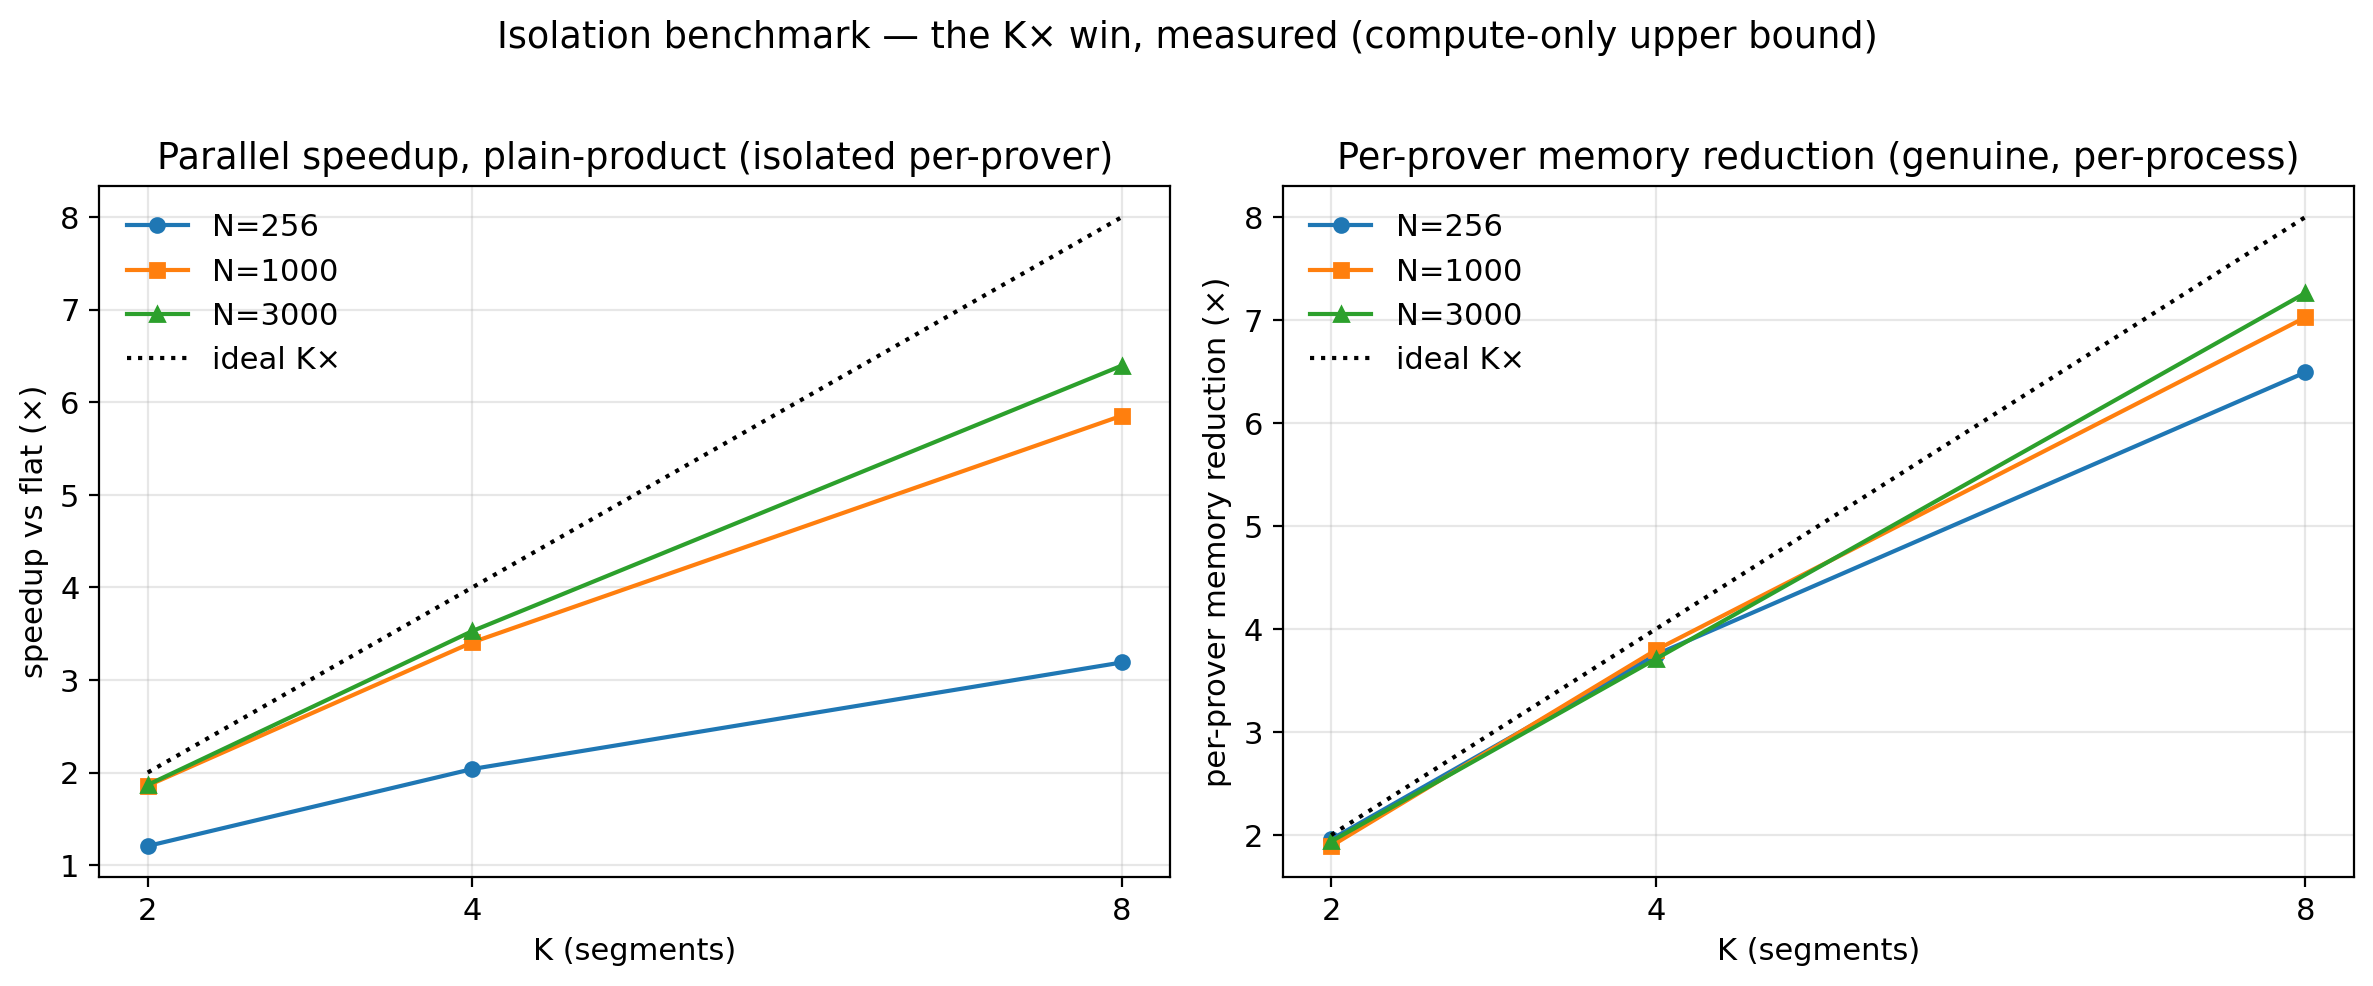
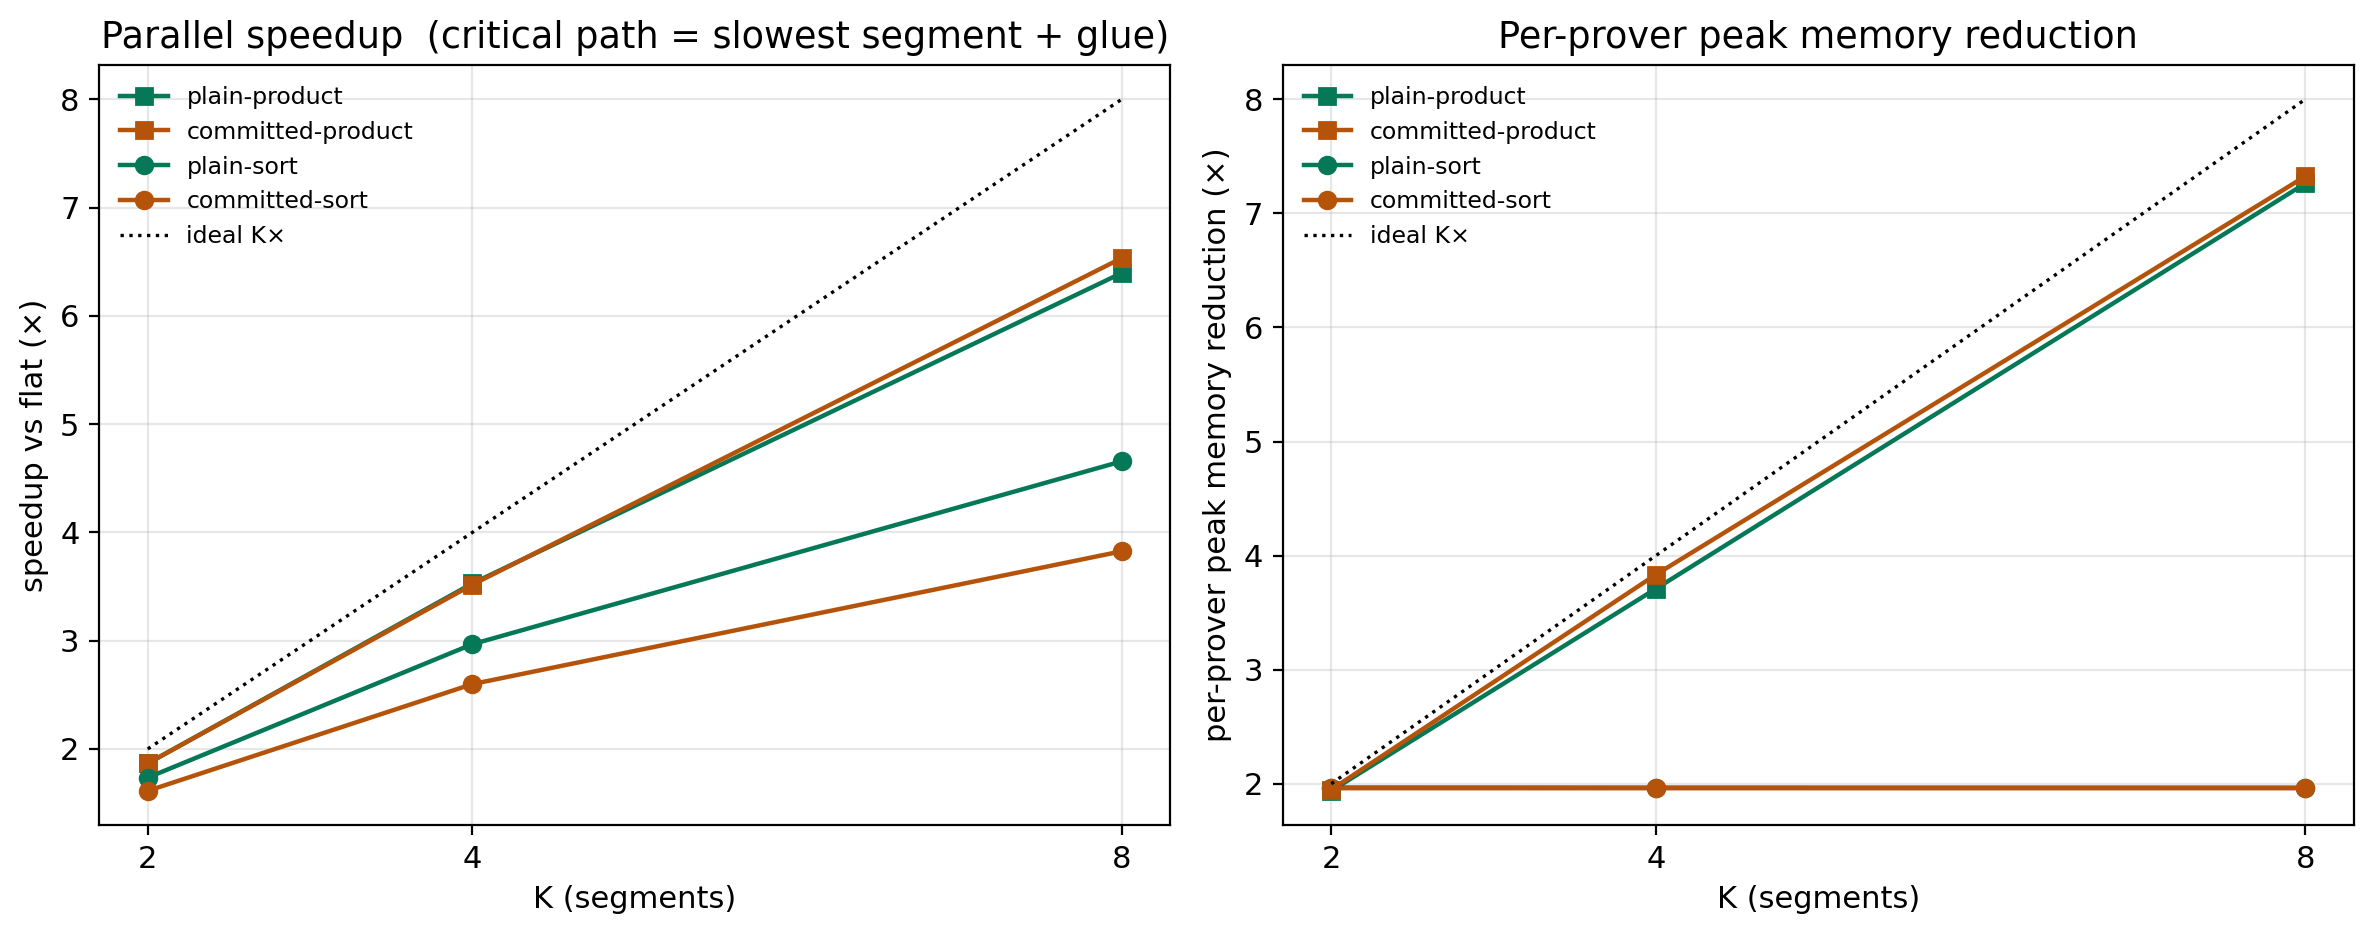
Ch6: draft §6.4 (proving in parallel — the K× win, split by mechanism)
§6.4.1 The Speedup, and Its Ceiling: critical path = slowest segment + glue
(isolated/uncontended composition, stated as a compute-only upper bound). At
n=3000, K=8 the product variants reach ~6.4-6.5x; the shortfall from 8x is the
dualism plus fixed per-proof overhead (segments cap near 6.7x) and then the
glue. The mechanism reaches the clock: the product glue is ~0.5s, the sort glue
a serial O(n) tail (7s plain, 11s committed) that Amdahl turns into 4.7x/3.8x.

§6.4.2 Clearing the Wall: per-prover peak memory falls ~7.3x for product (1.1 GB
vs flat's 8.3), clearing the wall and reaching n=5000 (~2 GB/prover) that flat
cannot prove at all; the sort variants cap at ~2x across K because the O(n) glue
is the ceiling, and that glue grows back into the wall (12.8 GB at n=5000). The
lever's true worth: the difference between clearing the wall and only appearing
to.

Fig 07 redesigned to the mechanism split (speedup + per-prover memory vs K, all
four variants + ideal Kx), lowercase n, no in-figure title.

diff --git a/pipeline/plot_thesis_figures.py b/pipeline/plot_thesis_figures.py
@@ -267,32 +267,34 @@ def fig_f7():
 
 # --- FIG 7: speedup vs K (isolated, ideal-parallel) ------------------------
 def fig_speedup_vs_k():
+    # Mechanism split at fixed n: product glue is negligible so both speedup and
+    # per-prover memory approach K×; the sort glue is a serial, memory-heavy O(n)
+    # tail that caps both. hue = regime, marker = mechanism (style grammar).
+    N=3000
+    FLATREF={"plain-product":"flat_merkle_grand_product","committed-product":"flat_merkle_grand_product",
+             "plain-sort":"flat_merkle_sort","committed-sort":"flat_merkle_sort"}
+    variants=["plain-product","committed-product","plain-sort","committed-sort"]
     fig, axes = plt.subplots(1,2,figsize=(12,4.8))
-    Ns=[256,1000,3000]
     ax=axes[0]
-    for n,mk in zip(Ns,("o","s","^")):
-        sp=[]
-        for k in (2,4,8):
-            d=HIER["plain-product"].get((n,k)); fp=fb("flat_merkle_grand_product",n,"prove_s")
-            sp.append(fp/d["crit"] if d and fp else np.nan)
-        ax.plot((2,4,8),sp,mk+"-",ms=5,label=f"N={n}")
-    ax.plot((2,4,8),(2,4,8),"k:",label="ideal K×")
+    for name in variants:
+        col,mk=C[name]
+        sp=[(fb(FLATREF[name],N,"prove_s")/HIER[name][(N,k)]["crit"]) if (N,k) in HIER[name] else np.nan
+            for k in (2,4,8)]
+        ax.plot((2,4,8),sp,mk+"-",ms=6,color=col,lw=1.6,label=name)
+    ax.plot((2,4,8),(2,4,8),"k:",lw=1.2,label="ideal K×")
     ax.set_xlabel("K (segments)"); ax.set_ylabel("speedup vs flat (×)")
-    ax.set_title("Parallel speedup, plain-product (isolated per-prover)")
-    ax.set_xticks((2,4,8)); ax.legend()
-    # memory reduction
+    ax.set_title("Parallel speedup  (critical path = slowest segment + glue)")
+    ax.set_xticks((2,4,8)); ax.legend(fontsize=8.5)
     ax=axes[1]
-    for n,mk in zip(Ns,("o","s","^")):
-        red=[]
-        for k in (2,4,8):
-            d=HIER["plain-product"].get((n,k)); fpk=fb("flat_merkle_grand_product",n,"peak_mb")
-            red.append(fpk/d["peak"] if d and fpk else np.nan)
-        ax.plot((2,4,8),red,mk+"-",ms=5,label=f"N={n}")
-    ax.plot((2,4,8),(2,4,8),"k:",label="ideal K×")
-    ax.set_xlabel("K (segments)"); ax.set_ylabel("per-prover memory reduction (×)")
-    ax.set_title("Per-prover memory reduction (genuine, per-process)")
-    ax.set_xticks((2,4,8)); ax.legend()
-    fig.suptitle("Isolation benchmark — the K× win, measured (compute-only upper bound)", y=1.02)
+    for name in variants:
+        col,mk=C[name]
+        red=[(fb(FLATREF[name],N,"peak_mb")/HIER[name][(N,k)]["peak"]) if (N,k) in HIER[name] else np.nan
+             for k in (2,4,8)]
+        ax.plot((2,4,8),red,mk+"-",ms=6,color=col,lw=1.6,label=name)
+    ax.plot((2,4,8),(2,4,8),"k:",lw=1.2,label="ideal K×")
+    ax.set_xlabel("K (segments)"); ax.set_ylabel("per-prover peak memory reduction (×)")
+    ax.set_title("Per-prover peak memory reduction")
+    ax.set_xticks((2,4,8)); ax.legend(fontsize=8.5)
     save(fig, "07_speedup_and_memory_vs_K")
 
 # --- FIG 8: recursion M-independence (the gem) -----------------------------